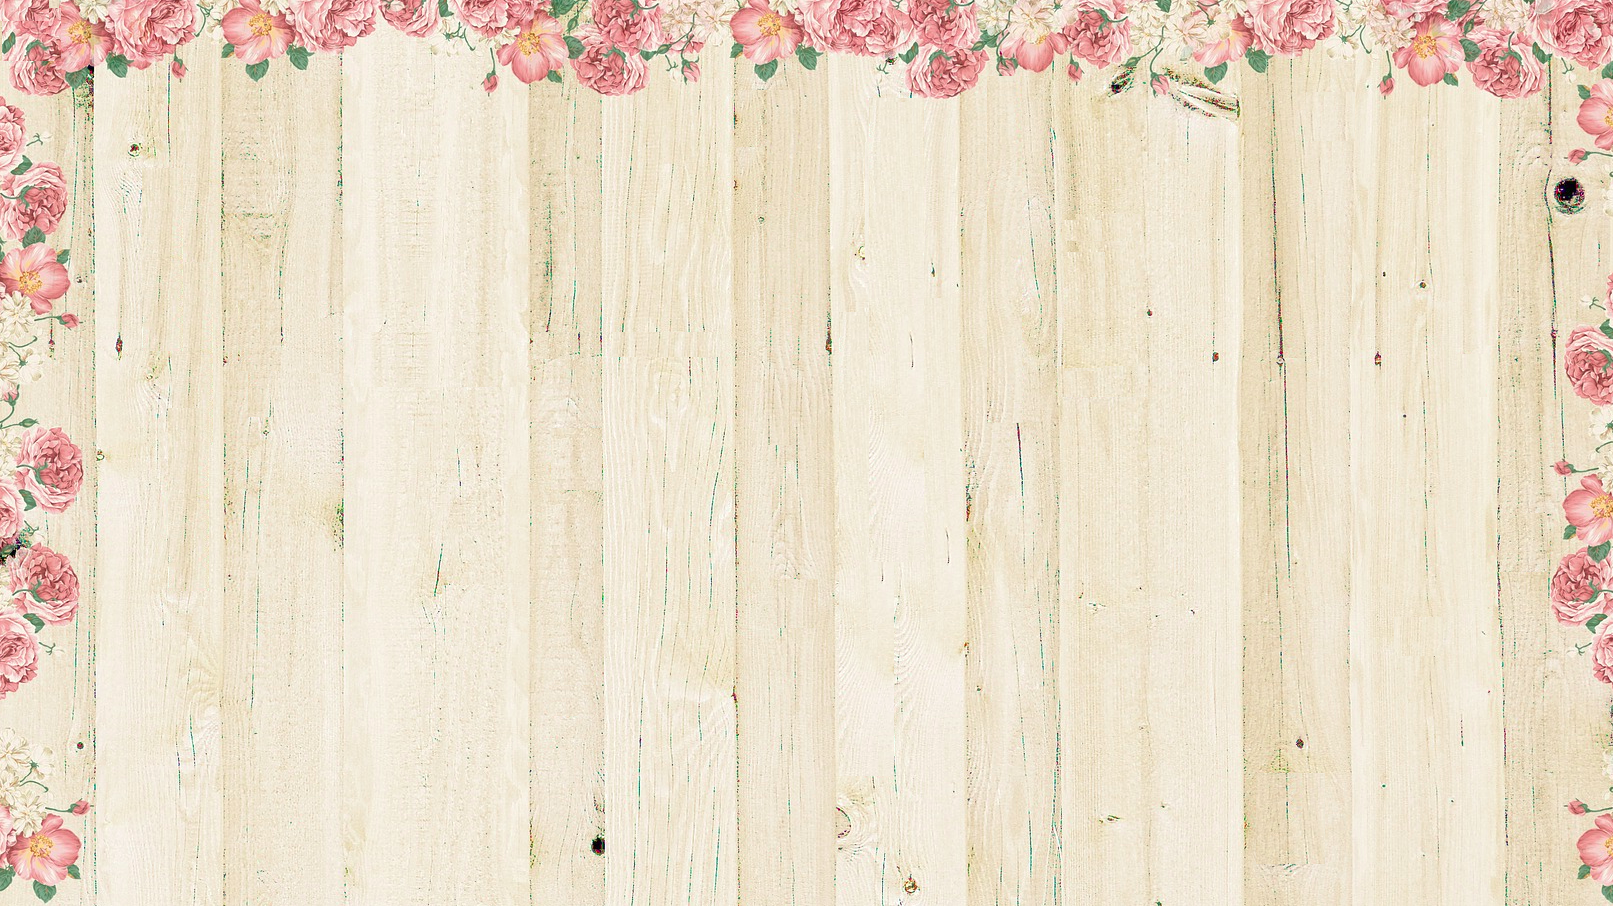
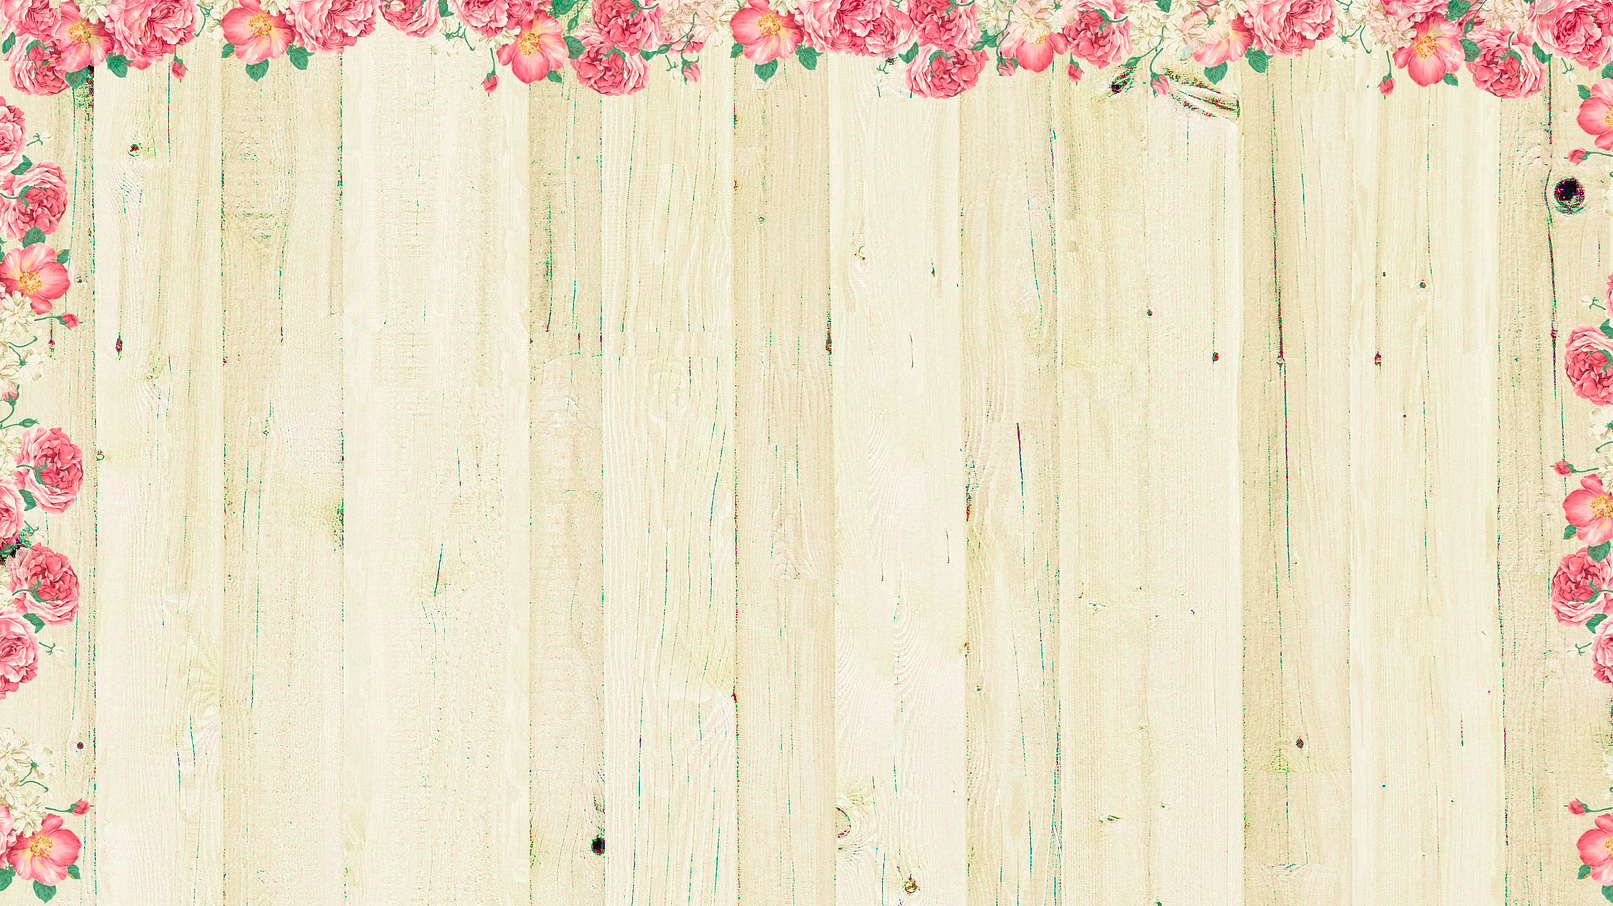
updated desgin again

diff --git a/css/style.css b/css/style.css
@@ -136,11 +136,14 @@ td { padding: 3px 8px 3px 8px; }
 @media screen and (max-device-width: 670px) {
   body {
     font-size: 24px;
-    line-height: 60px;
+    line-height: 50px;
   }
 
   /* First page */
-  .first-page { padding: 30px 0; }
+  .first-page { 
+    padding: 30px 0;
+    line-height: 60px;
+  }
   .br-pc { display: none; }
   .card { padding: 0; }
   .card-head { font-size: 64px; }
@@ -174,8 +177,8 @@ td { padding: 3px 8px 3px 8px; }
 
   /* Fourth page */
   .fourth-page {
-    padding: 20px;
-    background-image: url('../img/images/card-bg-mob.png');
+    padding: 10px;
+    background-image: url('../img/images/card-bg-mob-2.png');
     background-size: cover;
   }
   .invitation-date { font-size: 28px; }
